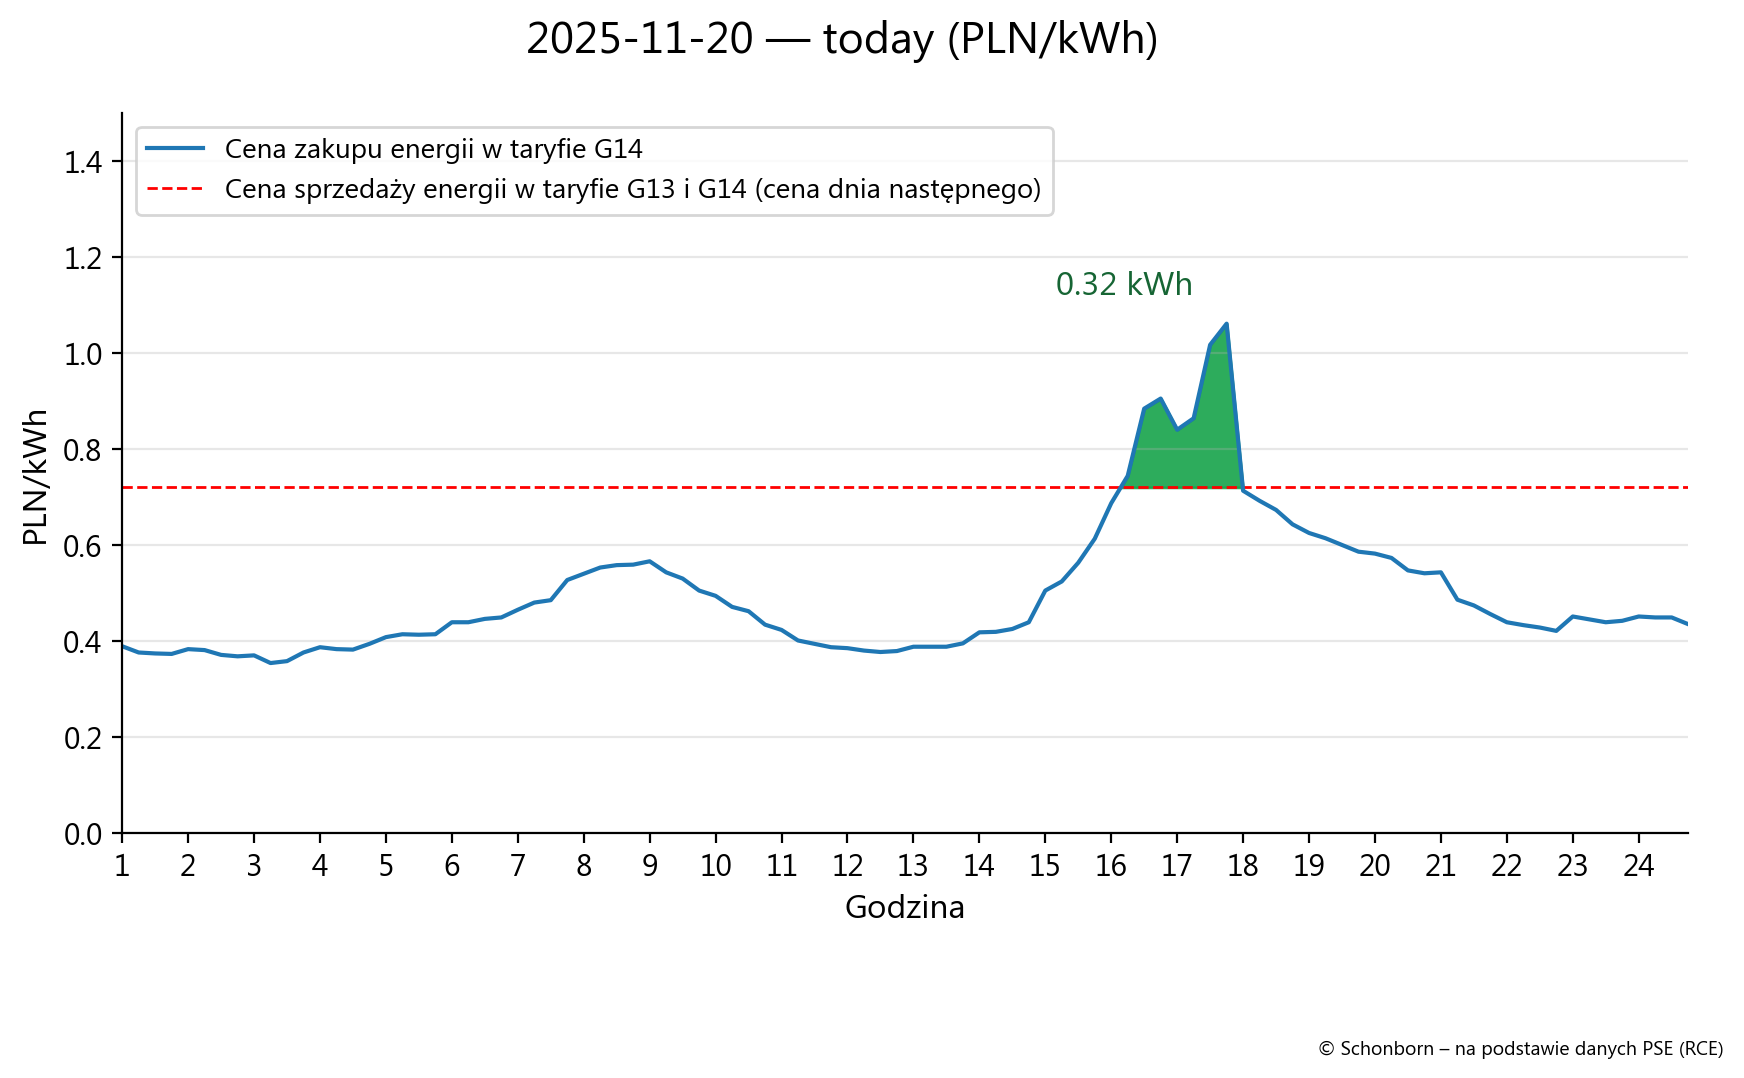
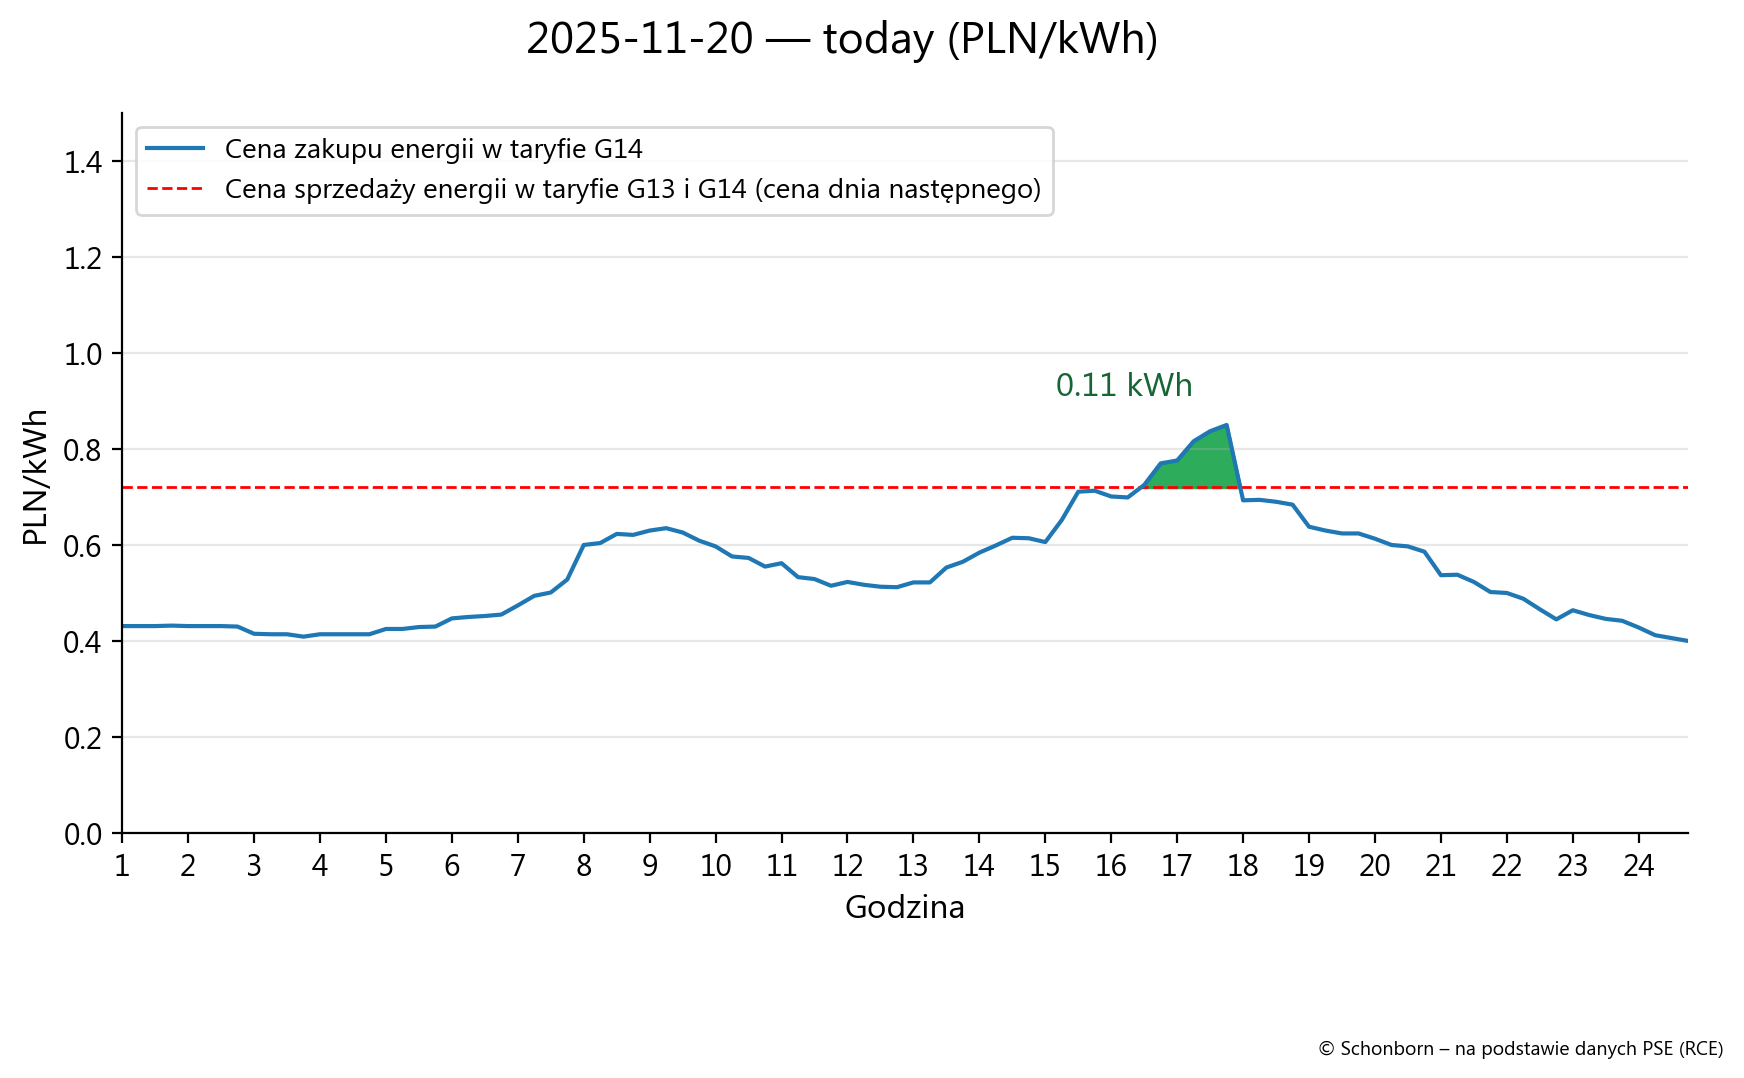
site: update 2025-11-20 13:01 UTC

diff --git a/site/html_01_tabele_wykresy_g14_today_tomorrow.html b/site/html_01_tabele_wykresy_g14_today_tomorrow.html
@@ -115,7 +115,7 @@
 <section class="hero">
   <div class="kicker">Dane</div>
   <h1>Taryfa G14 — dzisiaj i jutro</h1>
-  <p class="muted">Strona wygenerowana: 2025-11-20 13:01:18</p>
+  <p class="muted">Strona wygenerowana: 2025-11-20 14:01:15</p>
   <p class="muted">Dane G14 (dzisiaj) — ostatnia próbka: 2025-11-20 23:45:00</p>
   <p class="muted">Dane G14 (jutro) — ostatnia próbka: brak danych</p>
 </section>
@@ -126,10 +126,10 @@
   <p class="muted">Dzień danych: 2025-11-20</p>
 
   <div class="legend">
-    <span class="chip"><span class="box a"></span>&nbsp;<strong>a</strong> avg: 0,570 PLN/kWh</span>
-    <span class="chip"><span class="box b"></span>&nbsp;<strong>b</strong> avg: 0,599 PLN/kWh</span>
-    <span class="chip"><span class="box c"></span>&nbsp;<strong>c</strong> avg: 0,707 PLN/kWh</span>
-    <span class="chip"><span class="box d"></span>&nbsp;<strong>d</strong> avg: 1,046 PLN/kWh</span>
+    <span class="chip"><span class="box a"></span>&nbsp;<strong>a</strong> avg: 0,622 PLN/kWh</span>
+    <span class="chip"><span class="box b"></span>&nbsp;<strong>b</strong> avg: 0,651 PLN/kWh</span>
+    <span class="chip"><span class="box c"></span>&nbsp;<strong>c</strong> avg: 0,800 PLN/kWh</span>
+    <span class="chip"><span class="box d"></span>&nbsp;<strong>d</strong> avg: 1,006 PLN/kWh</span>
   </div>
 
   
@@ -139,102 +139,102 @@
       <colgroup><col class="col-start"><col class="col-end"><col class="col-price"><col class="col-cat"></colgroup>
       <thead><tr><th>Start</th><th>Koniec</th><th>Cena [PLN/kWh]</th><th>Wsk.</th></tr></thead>
       <tbody>
-          <tr class="cat-b"><td>00:00</td><td>00:15</td><td>0,588</td><td>b</td></tr>
-          <tr class="cat-a"><td>00:15</td><td>00:30</td><td>0,572</td><td>a</td></tr>
-          <tr class="cat-a"><td>00:30</td><td>00:45</td><td>0,570</td><td>a</td></tr>
-          <tr class="cat-a"><td>00:45</td><td>01:00</td><td>0,569</td><td>a</td></tr>
-          <tr class="cat-a"><td>01:00</td><td>01:15</td><td>0,581</td><td>a</td></tr>
-          <tr class="cat-a"><td>01:15</td><td>01:30</td><td>0,579</td><td>a</td></tr>
-          <tr class="cat-a"><td>01:30</td><td>01:45</td><td>0,566</td><td>a</td></tr>
-          <tr class="cat-a"><td>01:45</td><td>02:00</td><td>0,563</td><td>a</td></tr>
-          <tr class="cat-a"><td>02:00</td><td>02:15</td><td>0,565</td><td>a</td></tr>
-          <tr class="cat-a"><td>02:15</td><td>02:30</td><td>0,545</td><td>a</td></tr>
-          <tr class="cat-a"><td>02:30</td><td>02:45</td><td>0,550</td><td>a</td></tr>
-          <tr class="cat-a"><td>02:45</td><td>03:00</td><td>0,572</td><td>a</td></tr>
-          <tr class="cat-b"><td>03:00</td><td>03:15</td><td>0,586</td><td>b</td></tr>
-          <tr class="cat-a"><td>03:15</td><td>03:30</td><td>0,581</td><td>a</td></tr>
-          <tr class="cat-a"><td>03:30</td><td>03:45</td><td>0,580</td><td>a</td></tr>
-          <tr class="cat-b"><td>03:45</td><td>04:00</td><td>0,595</td><td>b</td></tr>
-          <tr class="cat-b"><td>04:00</td><td>04:15</td><td>0,612</td><td>b</td></tr>
-          <tr class="cat-b"><td>04:15</td><td>04:30</td><td>0,619</td><td>b</td></tr>
-          <tr class="cat-b"><td>04:30</td><td>04:45</td><td>0,618</td><td>b</td></tr>
-          <tr class="cat-b"><td>04:45</td><td>05:00</td><td>0,619</td><td>b</td></tr>
-          <tr class="cat-c"><td>05:00</td><td>05:15</td><td>0,650</td><td>c</td></tr>
-          <tr class="cat-c"><td>05:15</td><td>05:30</td><td>0,650</td><td>c</td></tr>
-          <tr class="cat-c"><td>05:30</td><td>05:45</td><td>0,659</td><td>c</td></tr>
-          <tr class="cat-c"><td>05:45</td><td>06:00</td><td>0,662</td><td>c</td></tr>
-          <tr class="cat-c"><td>06:00</td><td>06:15</td><td>0,682</td><td>c</td></tr>
-          <tr class="cat-c"><td>06:15</td><td>06:30</td><td>0,700</td><td>c</td></tr>
-          <tr class="cat-c"><td>06:30</td><td>06:45</td><td>0,707</td><td>c</td></tr>
-          <tr class="cat-c"><td>06:45</td><td>07:00</td><td>0,758</td><td>c</td></tr>
-          <tr class="cat-c"><td>07:00</td><td>07:15</td><td>0,774</td><td>c</td></tr>
-          <tr class="cat-c"><td>07:15</td><td>07:30</td><td>0,790</td><td>c</td></tr>
-          <tr class="cat-c"><td>07:30</td><td>07:45</td><td>0,796</td><td>c</td></tr>
-          <tr class="cat-c"><td>07:45</td><td>08:00</td><td>0,798</td><td>c</td></tr>
-          <tr class="cat-c"><td>08:00</td><td>08:15</td><td>0,806</td><td>c</td></tr>
-          <tr class="cat-c"><td>08:15</td><td>08:30</td><td>0,778</td><td>c</td></tr>
-          <tr class="cat-c"><td>08:30</td><td>08:45</td><td>0,762</td><td>c</td></tr>
-          <tr class="cat-c"><td>08:45</td><td>09:00</td><td>0,731</td><td>c</td></tr>
-          <tr class="cat-c"><td>09:00</td><td>09:15</td><td>0,718</td><td>c</td></tr>
-          <tr class="cat-c"><td>09:15</td><td>09:30</td><td>0,689</td><td>c</td></tr>
-          <tr class="cat-c"><td>09:30</td><td>09:45</td><td>0,678</td><td>c</td></tr>
-          <tr class="cat-c"><td>09:45</td><td>10:00</td><td>0,644</td><td>c</td></tr>
-          <tr class="cat-c"><td>10:00</td><td>10:15</td><td>0,630</td><td>c</td></tr>
-          <tr class="cat-b"><td>10:15</td><td>10:30</td><td>0,603</td><td>b</td></tr>
-          <tr class="cat-b"><td>10:30</td><td>10:45</td><td>0,595</td><td>b</td></tr>
-          <tr class="cat-b"><td>10:45</td><td>11:00</td><td>0,586</td><td>b</td></tr>
-          <tr class="cat-b"><td>11:00</td><td>11:15</td><td>0,584</td><td>b</td></tr>
-          <tr class="cat-a"><td>11:15</td><td>11:30</td><td>0,577</td><td>a</td></tr>
-          <tr class="cat-a"><td>11:30</td><td>11:45</td><td>0,574</td><td>a</td></tr>
-          <tr class="cat-a"><td>11:45</td><td>12:00</td><td>0,576</td><td>a</td></tr>
-          <tr class="cat-b"><td>12:00</td><td>12:15</td><td>0,587</td><td>b</td></tr>
-          <tr class="cat-b"><td>12:15</td><td>12:30</td><td>0,587</td><td>b</td></tr>
-          <tr class="cat-b"><td>12:30</td><td>12:45</td><td>0,587</td><td>b</td></tr>
-          <tr class="cat-b"><td>12:45</td><td>13:00</td><td>0,596</td><td>b</td></tr>
-          <tr class="cat-b"><td>13:00</td><td>13:15</td><td>0,624</td><td>b</td></tr>
-          <tr class="cat-c"><td>13:15</td><td>13:30</td><td>0,625</td><td>c</td></tr>
-          <tr class="cat-c"><td>13:30</td><td>13:45</td><td>0,633</td><td>c</td></tr>
-          <tr class="cat-c"><td>13:45</td><td>14:00</td><td>0,650</td><td>c</td></tr>
-          <tr class="cat-c"><td>14:00</td><td>14:15</td><td>0,731</td><td>c</td></tr>
-          <tr class="cat-c"><td>14:15</td><td>14:30</td><td>0,755</td><td>c</td></tr>
-          <tr class="cat-c"><td>14:30</td><td>14:45</td><td>0,802</td><td>c</td></tr>
-          <tr class="cat-d"><td>14:45</td><td>15:00</td><td>0,864</td><td>d</td></tr>
-          <tr class="cat-d"><td>15:00</td><td>15:15</td><td>0,955</td><td>d</td></tr>
-          <tr class="cat-d"><td>15:15</td><td>15:30</td><td>1,025</td><td>d</td></tr>
-          <tr class="cat-d"><td>15:30</td><td>15:45</td><td>1,200</td><td>d</td></tr>
-          <tr class="cat-d"><td>15:45</td><td>16:00</td><td>1,220</td><td>d</td></tr>
-          <tr class="cat-d"><td>16:00</td><td>16:15</td><td>1,140</td><td>d</td></tr>
-          <tr class="cat-d"><td>16:15</td><td>16:30</td><td>1,170</td><td>d</td></tr>
-          <tr class="cat-d"><td>16:30</td><td>16:45</td><td>1,360</td><td>d</td></tr>
-          <tr class="cat-d"><td>16:45</td><td>17:00</td><td>1,420</td><td>d</td></tr>
-          <tr class="cat-d"><td>17:00</td><td>17:15</td><td>0,987</td><td>d</td></tr>
-          <tr class="cat-d"><td>17:15</td><td>17:30</td><td>0,961</td><td>d</td></tr>
-          <tr class="cat-d"><td>17:30</td><td>17:45</td><td>0,938</td><td>d</td></tr>
-          <tr class="cat-d"><td>17:45</td><td>18:00</td><td>0,901</td><td>d</td></tr>
-          <tr class="cat-d"><td>18:00</td><td>18:15</td><td>0,879</td><td>d</td></tr>
-          <tr class="cat-d"><td>18:15</td><td>18:30</td><td>0,865</td><td>d</td></tr>
-          <tr class="cat-d"><td>18:30</td><td>18:45</td><td>0,848</td><td>d</td></tr>
-          <tr class="cat-c"><td>18:45</td><td>19:00</td><td>0,831</td><td>c</td></tr>
-          <tr class="cat-c"><td>19:00</td><td>19:15</td><td>0,826</td><td>c</td></tr>
-          <tr class="cat-c"><td>19:15</td><td>19:30</td><td>0,815</td><td>c</td></tr>
-          <tr class="cat-c"><td>19:30</td><td>19:45</td><td>0,783</td><td>c</td></tr>
-          <tr class="cat-c"><td>19:45</td><td>20:00</td><td>0,775</td><td>c</td></tr>
-          <tr class="cat-c"><td>20:00</td><td>20:15</td><td>0,778</td><td>c</td></tr>
-          <tr class="cat-c"><td>20:15</td><td>20:30</td><td>0,708</td><td>c</td></tr>
-          <tr class="cat-c"><td>20:30</td><td>20:45</td><td>0,693</td><td>c</td></tr>
-          <tr class="cat-c"><td>20:45</td><td>21:00</td><td>0,671</td><td>c</td></tr>
-          <tr class="cat-c"><td>21:00</td><td>21:15</td><td>0,650</td><td>c</td></tr>
-          <tr class="cat-c"><td>21:15</td><td>21:30</td><td>0,643</td><td>c</td></tr>
-          <tr class="cat-c"><td>21:30</td><td>21:45</td><td>0,636</td><td>c</td></tr>
-          <tr class="cat-c"><td>21:45</td><td>22:00</td><td>0,628</td><td>c</td></tr>
-          <tr class="cat-c"><td>22:00</td><td>22:15</td><td>0,665</td><td>c</td></tr>
-          <tr class="cat-c"><td>22:15</td><td>22:30</td><td>0,657</td><td>c</td></tr>
-          <tr class="cat-c"><td>22:30</td><td>22:45</td><td>0,650</td><td>c</td></tr>
-          <tr class="cat-c"><td>22:45</td><td>23:00</td><td>0,654</td><td>c</td></tr>
-          <tr class="cat-c"><td>23:00</td><td>23:15</td><td>0,665</td><td>c</td></tr>
-          <tr class="cat-c"><td>23:15</td><td>23:30</td><td>0,662</td><td>c</td></tr>
-          <tr class="cat-c"><td>23:30</td><td>23:45</td><td>0,662</td><td>c</td></tr>
-          <tr class="cat-c"><td>23:45</td><td>00:00</td><td>0,645</td><td>c</td></tr>
+          <tr class="cat-b"><td>00:00</td><td>00:15</td><td>0,640</td><td>b</td></tr>
+          <tr class="cat-b"><td>00:15</td><td>00:30</td><td>0,640</td><td>b</td></tr>
+          <tr class="cat-b"><td>00:30</td><td>00:45</td><td>0,640</td><td>b</td></tr>
+          <tr class="cat-b"><td>00:45</td><td>01:00</td><td>0,641</td><td>b</td></tr>
+          <tr class="cat-b"><td>01:00</td><td>01:15</td><td>0,640</td><td>b</td></tr>
+          <tr class="cat-b"><td>01:15</td><td>01:30</td><td>0,640</td><td>b</td></tr>
+          <tr class="cat-b"><td>01:30</td><td>01:45</td><td>0,640</td><td>b</td></tr>
+          <tr class="cat-a"><td>01:45</td><td>02:00</td><td>0,639</td><td>a</td></tr>
+          <tr class="cat-a"><td>02:00</td><td>02:15</td><td>0,620</td><td>a</td></tr>
+          <tr class="cat-a"><td>02:15</td><td>02:30</td><td>0,619</td><td>a</td></tr>
+          <tr class="cat-a"><td>02:30</td><td>02:45</td><td>0,619</td><td>a</td></tr>
+          <tr class="cat-a"><td>02:45</td><td>03:00</td><td>0,613</td><td>a</td></tr>
+          <tr class="cat-a"><td>03:00</td><td>03:15</td><td>0,619</td><td>a</td></tr>
+          <tr class="cat-a"><td>03:15</td><td>03:30</td><td>0,619</td><td>a</td></tr>
+          <tr class="cat-a"><td>03:30</td><td>03:45</td><td>0,619</td><td>a</td></tr>
+          <tr class="cat-a"><td>03:45</td><td>04:00</td><td>0,619</td><td>a</td></tr>
+          <tr class="cat-a"><td>04:00</td><td>04:15</td><td>0,633</td><td>a</td></tr>
+          <tr class="cat-a"><td>04:15</td><td>04:30</td><td>0,633</td><td>a</td></tr>
+          <tr class="cat-a"><td>04:30</td><td>04:45</td><td>0,638</td><td>a</td></tr>
+          <tr class="cat-b"><td>04:45</td><td>05:00</td><td>0,639</td><td>b</td></tr>
+          <tr class="cat-b"><td>05:00</td><td>05:15</td><td>0,660</td><td>b</td></tr>
+          <tr class="cat-b"><td>05:15</td><td>05:30</td><td>0,663</td><td>b</td></tr>
+          <tr class="cat-b"><td>05:30</td><td>05:45</td><td>0,666</td><td>b</td></tr>
+          <tr class="cat-b"><td>05:45</td><td>06:00</td><td>0,670</td><td>b</td></tr>
+          <tr class="cat-c"><td>06:00</td><td>06:15</td><td>0,693</td><td>c</td></tr>
+          <tr class="cat-c"><td>06:15</td><td>06:30</td><td>0,718</td><td>c</td></tr>
+          <tr class="cat-c"><td>06:30</td><td>06:45</td><td>0,726</td><td>c</td></tr>
+          <tr class="cat-c"><td>06:45</td><td>07:00</td><td>0,759</td><td>c</td></tr>
+          <tr class="cat-c"><td>07:00</td><td>07:15</td><td>0,848</td><td>c</td></tr>
+          <tr class="cat-c"><td>07:15</td><td>07:30</td><td>0,853</td><td>c</td></tr>
+          <tr class="cat-c"><td>07:30</td><td>07:45</td><td>0,876</td><td>c</td></tr>
+          <tr class="cat-c"><td>07:45</td><td>08:00</td><td>0,874</td><td>c</td></tr>
+          <tr class="cat-c"><td>08:00</td><td>08:15</td><td>0,885</td><td>c</td></tr>
+          <tr class="cat-c"><td>08:15</td><td>08:30</td><td>0,891</td><td>c</td></tr>
+          <tr class="cat-c"><td>08:30</td><td>08:45</td><td>0,880</td><td>c</td></tr>
+          <tr class="cat-c"><td>08:45</td><td>09:00</td><td>0,859</td><td>c</td></tr>
+          <tr class="cat-c"><td>09:00</td><td>09:15</td><td>0,844</td><td>c</td></tr>
+          <tr class="cat-c"><td>09:15</td><td>09:30</td><td>0,818</td><td>c</td></tr>
+          <tr class="cat-c"><td>09:30</td><td>09:45</td><td>0,815</td><td>c</td></tr>
+          <tr class="cat-c"><td>09:45</td><td>10:00</td><td>0,793</td><td>c</td></tr>
+          <tr class="cat-c"><td>10:00</td><td>10:15</td><td>0,801</td><td>c</td></tr>
+          <tr class="cat-c"><td>10:15</td><td>10:30</td><td>0,766</td><td>c</td></tr>
+          <tr class="cat-c"><td>10:30</td><td>10:45</td><td>0,761</td><td>c</td></tr>
+          <tr class="cat-c"><td>10:45</td><td>11:00</td><td>0,743</td><td>c</td></tr>
+          <tr class="cat-c"><td>11:00</td><td>11:15</td><td>0,753</td><td>c</td></tr>
+          <tr class="cat-c"><td>11:15</td><td>11:30</td><td>0,746</td><td>c</td></tr>
+          <tr class="cat-c"><td>11:30</td><td>11:45</td><td>0,741</td><td>c</td></tr>
+          <tr class="cat-c"><td>11:45</td><td>12:00</td><td>0,740</td><td>c</td></tr>
+          <tr class="cat-c"><td>12:00</td><td>12:15</td><td>0,752</td><td>c</td></tr>
+          <tr class="cat-c"><td>12:15</td><td>12:30</td><td>0,752</td><td>c</td></tr>
+          <tr class="cat-c"><td>12:30</td><td>12:45</td><td>0,790</td><td>c</td></tr>
+          <tr class="cat-c"><td>12:45</td><td>13:00</td><td>0,805</td><td>c</td></tr>
+          <tr class="cat-c"><td>13:00</td><td>13:15</td><td>0,828</td><td>c</td></tr>
+          <tr class="cat-c"><td>13:15</td><td>13:30</td><td>0,847</td><td>c</td></tr>
+          <tr class="cat-c"><td>13:30</td><td>13:45</td><td>0,866</td><td>c</td></tr>
+          <tr class="cat-c"><td>13:45</td><td>14:00</td><td>0,865</td><td>c</td></tr>
+          <tr class="cat-c"><td>14:00</td><td>14:15</td><td>0,855</td><td>c</td></tr>
+          <tr class="cat-d"><td>14:15</td><td>14:30</td><td>0,912</td><td>d</td></tr>
+          <tr class="cat-d"><td>14:30</td><td>14:45</td><td>0,985</td><td>d</td></tr>
+          <tr class="cat-d"><td>14:45</td><td>15:00</td><td>0,987</td><td>d</td></tr>
+          <tr class="cat-d"><td>15:00</td><td>15:15</td><td>0,972</td><td>d</td></tr>
+          <tr class="cat-d"><td>15:15</td><td>15:30</td><td>0,970</td><td>d</td></tr>
+          <tr class="cat-d"><td>15:30</td><td>15:45</td><td>1,002</td><td>d</td></tr>
+          <tr class="cat-d"><td>15:45</td><td>16:00</td><td>1,057</td><td>d</td></tr>
+          <tr class="cat-d"><td>16:00</td><td>16:15</td><td>1,064</td><td>d</td></tr>
+          <tr class="cat-d"><td>16:15</td><td>16:30</td><td>1,110</td><td>d</td></tr>
+          <tr class="cat-d"><td>16:30</td><td>16:45</td><td>1,140</td><td>d</td></tr>
+          <tr class="cat-d"><td>16:45</td><td>17:00</td><td>1,160</td><td>d</td></tr>
+          <tr class="cat-d"><td>17:00</td><td>17:15</td><td>0,962</td><td>d</td></tr>
+          <tr class="cat-d"><td>17:15</td><td>17:30</td><td>0,964</td><td>d</td></tr>
+          <tr class="cat-d"><td>17:30</td><td>17:45</td><td>0,959</td><td>d</td></tr>
+          <tr class="cat-d"><td>17:45</td><td>18:00</td><td>0,951</td><td>d</td></tr>
+          <tr class="cat-d"><td>18:00</td><td>18:15</td><td>0,895</td><td>d</td></tr>
+          <tr class="cat-c"><td>18:15</td><td>18:30</td><td>0,885</td><td>c</td></tr>
+          <tr class="cat-c"><td>18:30</td><td>18:45</td><td>0,878</td><td>c</td></tr>
+          <tr class="cat-c"><td>18:45</td><td>19:00</td><td>0,878</td><td>c</td></tr>
+          <tr class="cat-c"><td>19:00</td><td>19:15</td><td>0,864</td><td>c</td></tr>
+          <tr class="cat-c"><td>19:15</td><td>19:30</td><td>0,848</td><td>c</td></tr>
+          <tr class="cat-c"><td>19:30</td><td>19:45</td><td>0,844</td><td>c</td></tr>
+          <tr class="cat-c"><td>19:45</td><td>20:00</td><td>0,831</td><td>c</td></tr>
+          <tr class="cat-c"><td>20:00</td><td>20:15</td><td>0,771</td><td>c</td></tr>
+          <tr class="cat-c"><td>20:15</td><td>20:30</td><td>0,772</td><td>c</td></tr>
+          <tr class="cat-c"><td>20:30</td><td>20:45</td><td>0,753</td><td>c</td></tr>
+          <tr class="cat-c"><td>20:45</td><td>21:00</td><td>0,727</td><td>c</td></tr>
+          <tr class="cat-c"><td>21:00</td><td>21:15</td><td>0,725</td><td>c</td></tr>
+          <tr class="cat-c"><td>21:15</td><td>21:30</td><td>0,710</td><td>c</td></tr>
+          <tr class="cat-c"><td>21:30</td><td>21:45</td><td>0,683</td><td>c</td></tr>
+          <tr class="cat-b"><td>21:45</td><td>22:00</td><td>0,657</td><td>b</td></tr>
+          <tr class="cat-c"><td>22:00</td><td>22:15</td><td>0,681</td><td>c</td></tr>
+          <tr class="cat-b"><td>22:15</td><td>22:30</td><td>0,668</td><td>b</td></tr>
+          <tr class="cat-b"><td>22:30</td><td>22:45</td><td>0,659</td><td>b</td></tr>
+          <tr class="cat-b"><td>22:45</td><td>23:00</td><td>0,654</td><td>b</td></tr>
+          <tr class="cat-a"><td>23:00</td><td>23:15</td><td>0,636</td><td>a</td></tr>
+          <tr class="cat-a"><td>23:15</td><td>23:30</td><td>0,617</td><td>a</td></tr>
+          <tr class="cat-a"><td>23:30</td><td>23:45</td><td>0,609</td><td>a</td></tr>
+          <tr class="cat-a"><td>23:45</td><td>00:00</td><td>0,602</td><td>a</td></tr>
       </tbody>
     </table>
   </div>

diff --git a/site/html_02_raport_ze_stanu_teraz.html b/site/html_02_raport_ze_stanu_teraz.html
@@ -18,7 +18,7 @@
   </div>
 
   <section class="hero">
-    <div class="kicker">Ostatni odczyt: 20.11.2025 13:00</div>
+    <div class="kicker">Ostatni odczyt: 20.11.2025 14:00</div>
     <h1>Raport ze stanu teraz</h1>
     <p>
       Taryfy Tauron:
@@ -42,7 +42,7 @@
       <tbody>
         <tr>
           <th style="width:40%;">Czas odczytu</th>
-          <td>20.11.2025 13:00</td>
+          <td>20.11.2025 14:00</td>
         </tr>
         <tr>
           <th>Położenie</th>
@@ -62,19 +62,19 @@
       <tbody>
         <tr>
           <th style="width:40%;">Produkcja PV dzisiaj [kWh]</th>
-          <td>1.70</td>
+          <td>2.00</td>
         </tr>
         <tr>
           <th>Zużycie energii dzisiaj [kWh]</th>
-          <td>3.80</td>
+          <td>4.00</td>
         </tr>
         <tr>
           <th>Energia pobrana z sieci dzisiaj [kWh]</th>
-          <td>2.90</td>
+          <td>4.20</td>
         </tr>
         <tr>
           <th>Zużycie z sieci dzisiaj [kWh]</th>
-          <td>1.70</td>
+          <td>1.90</td>
         </tr>
         <tr>
           <th>Zużycie z własnego systemu dzisiaj [kWh]</th>
@@ -94,11 +94,11 @@
       <tbody>
         <tr>
           <th style="width:40%;">Moc PV [W]</th>
-          <td>344</td>
+          <td>0</td>
         </tr>
         <tr>
           <th>Moc z PV do systemu [W]</th>
-          <td>344</td>
+          <td>0</td>
         </tr>
         <tr>
           <th>Moc do domu [W]</th>
@@ -106,7 +106,7 @@
         </tr>
         <tr>
           <th>Moc z / do sieci [W]</th>
-          <td>344</td>
+          <td>242</td>
         </tr>
         <tr>
           <th>Moc z / do baterii [W]</th>
@@ -122,7 +122,7 @@
       <tbody>
         <tr>
           <th style="width:40%;">Stan naładowania baterii SOC [%]</th>
-          <td>85.0</td>
+          <td>95.0</td>
         </tr>
         <tr>
           <th>Tryb pracy baterii</th>
@@ -130,7 +130,7 @@
         </tr>
         <tr>
           <th>Dostępna energia w baterii [kWh]</th>
-          <td>9.00</td>
+          <td>10.00</td>
         </tr>
       </tbody>
     </table>
@@ -150,7 +150,7 @@
         </tr>
         <tr>
           <th>Napięcie [V]</th>
-          <td>237.54</td>
+          <td>238.38</td>
         </tr>
         <tr>
           <th>Prąd [A]</th>

diff --git a/site/html_03_g13_g14_porownanie.html b/site/html_03_g13_g14_porownanie.html
@@ -18,7 +18,7 @@
   </div>
 
   <section class="hero">
-    <div class="kicker">Porównanie kosztów w taryfach G13 i G14, ostatni pomiar dla 15 min. 0 s wykonano 2025-11-20 13:01:19</div>
+    <div class="kicker">Porównanie kosztów w taryfach G13 i G14, ostatni pomiar dla 15 min. 0 s wykonano 2025-11-20 14:01:16</div>
     <h1>Koszt energii</h1>
     <p>
       Taryfy Tauron:
